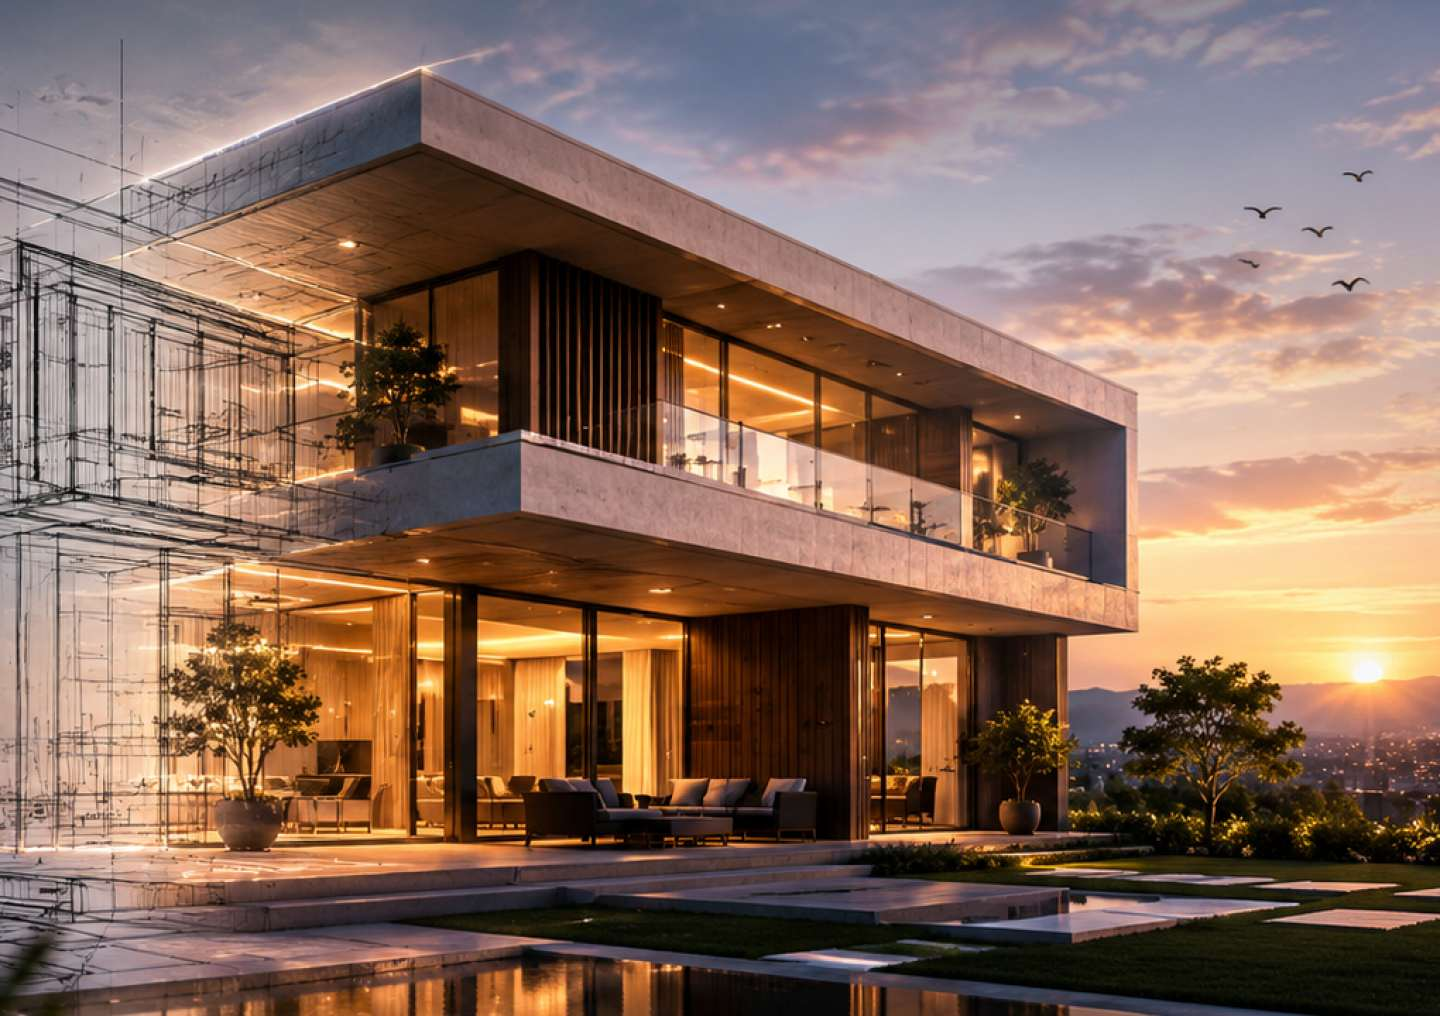
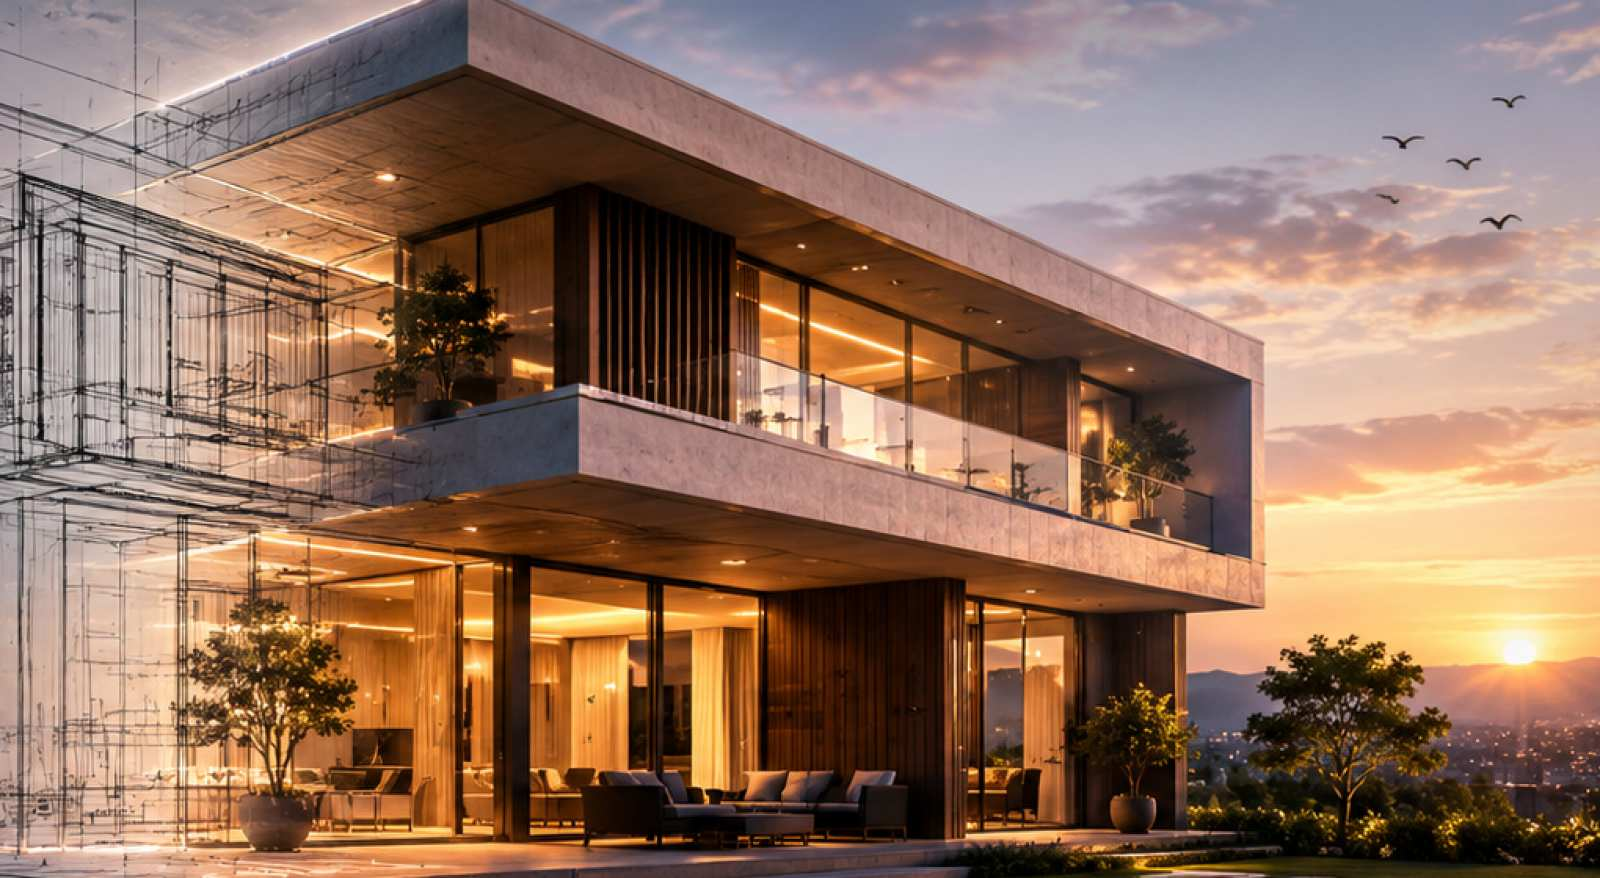
Hero rasmi kesilishi va header+hero balandligi qo'shilib ketishi tuzatildi
Rasm juda tor (baland-tor) nisbatda kesilgan edi, keng heroda kuchli
kattalashib, chetlari kesilib ko'rinardi — kengroq nisbatda qayta
kesildi. Shuningdek header balandligi hero balandligiga qo'shilib,
bitta ekrandan sal oshib ketayotgan edi.

diff --git a/resources/views/landing.blade.php b/resources/views/landing.blade.php
@@ -36,11 +36,12 @@ a { color: inherit; text-decoration:none; }
 
 /* ── Hero ── */
 .hero {
-    position:relative; overflow:hidden; height:100vh; height:100dvh;
+    position:relative; overflow:hidden;
+    height:calc(100vh - 68px); height:calc(100dvh - 68px);
     display:flex; flex-direction:column; color:#fff;
     background:#0c0a08;
 }
-.hero-bg { position:absolute; inset:0; width:100%; height:100%; object-fit:cover; object-position:center 40%; z-index:0; }
+.hero-bg { position:absolute; inset:0; width:100%; height:100%; object-fit:cover; object-position:center center; z-index:0; }
 .hero-overlay {
     position:absolute; inset:0; z-index:1;
     background:linear-gradient(100deg, rgba(10,8,6,.92) 0%, rgba(10,8,6,.62) 42%, rgba(10,8,6,.2) 68%, rgba(10,8,6,.4) 100%);
